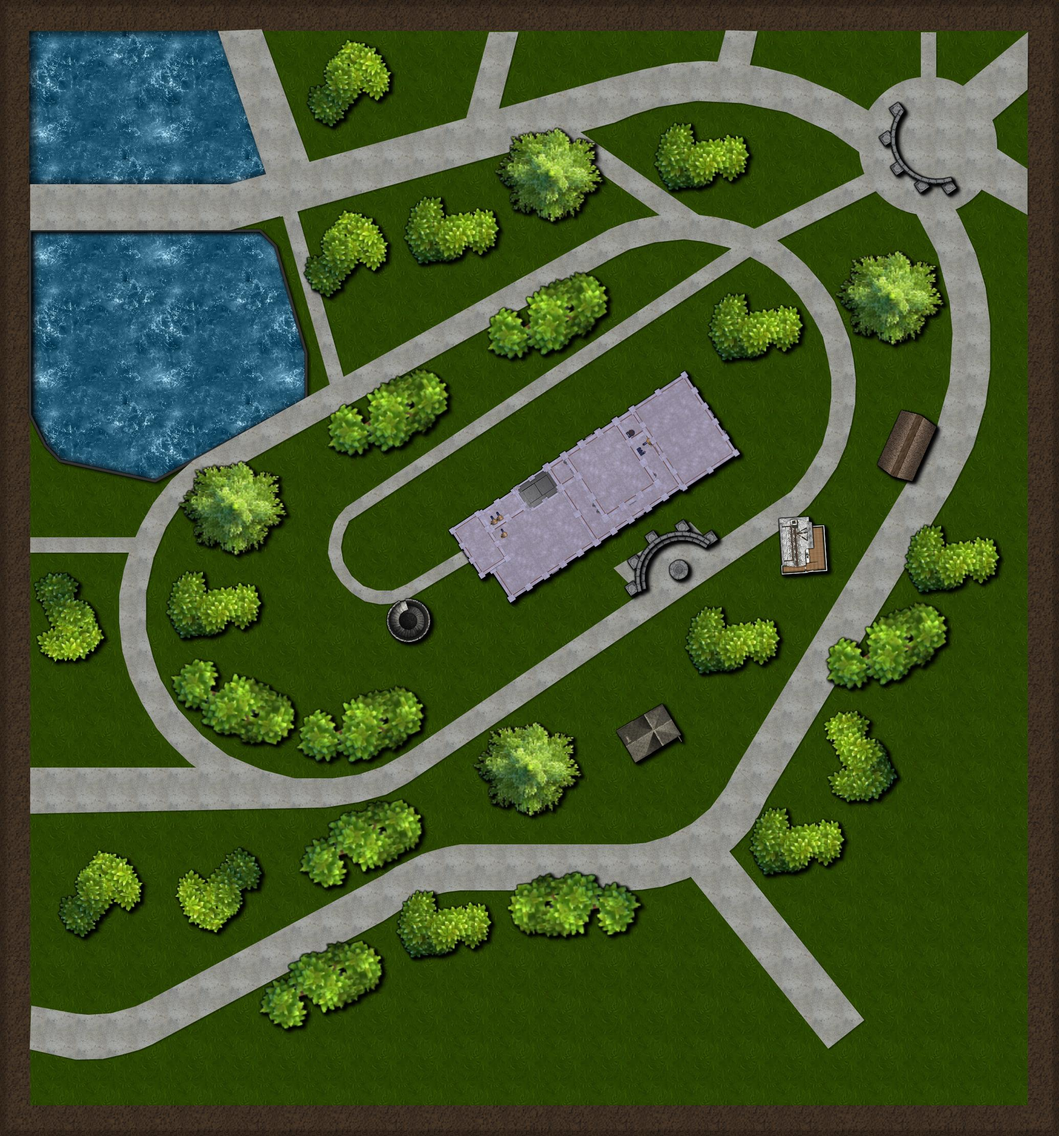
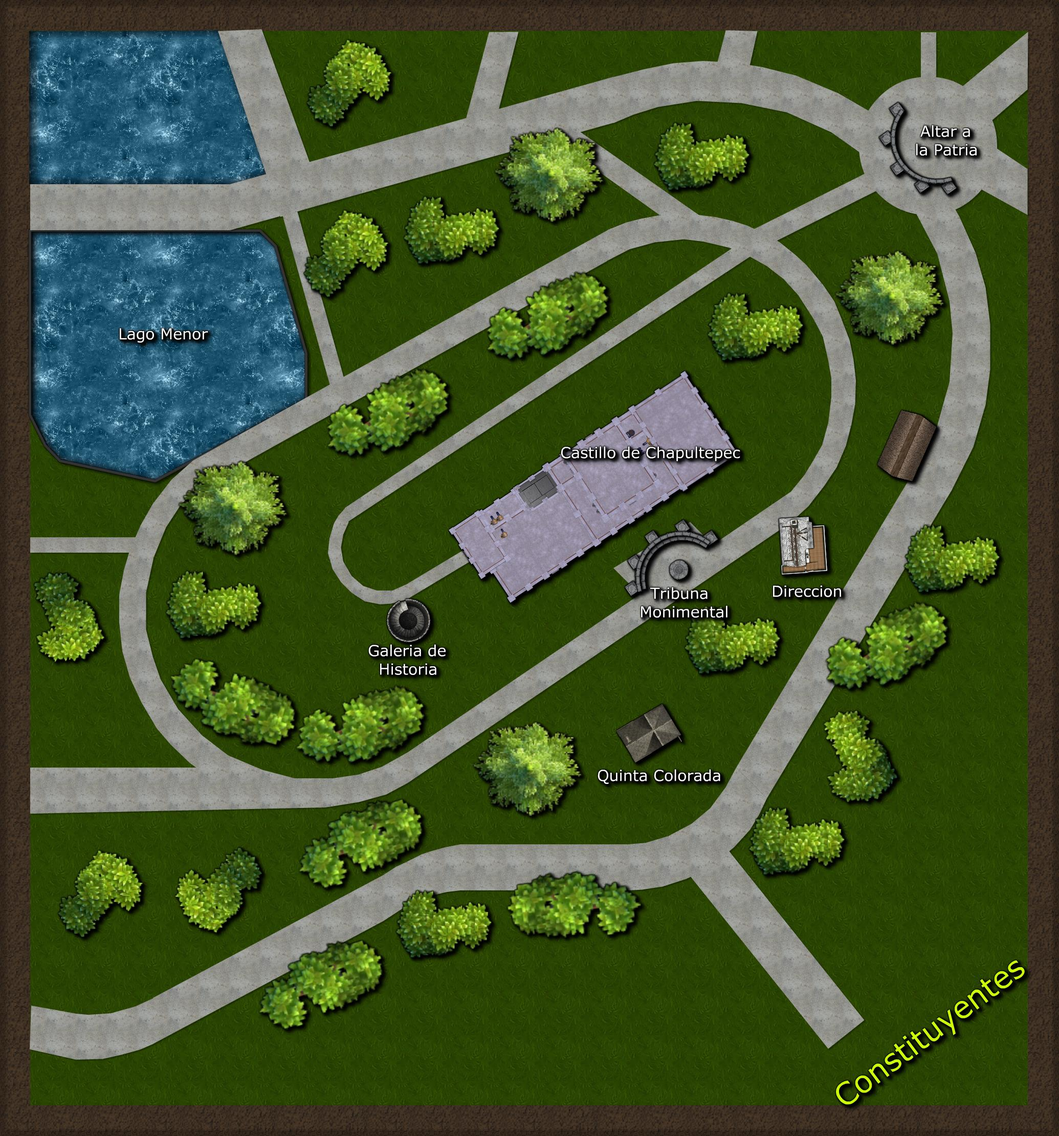
Front (#16)
* Actualización de Info

* Actualización Info

* Obtención de información

* SVGs Finales

* Actualización de Img

* ???

* Update test.js

* Chapultepec

diff --git a/components/Carousel.jsx b/components/Carousel.jsx
@@ -23,6 +23,7 @@ const Carousel = ({ sr, sv, ss, place, onCambio }) => {
                 id_est:place
             });
             setOptions(data.data);
+            console.log("las opciones son" + options);
 
         } // ESTA PARTE DA VALOR A LA DATA QUE SE VA USAR
           // LA PARTE DE SEC_LUG ES DEL "ID" DEL PISO, SI ES 1 ES PLANTA BAJA Y ASI, EN LA PARTE DE 
